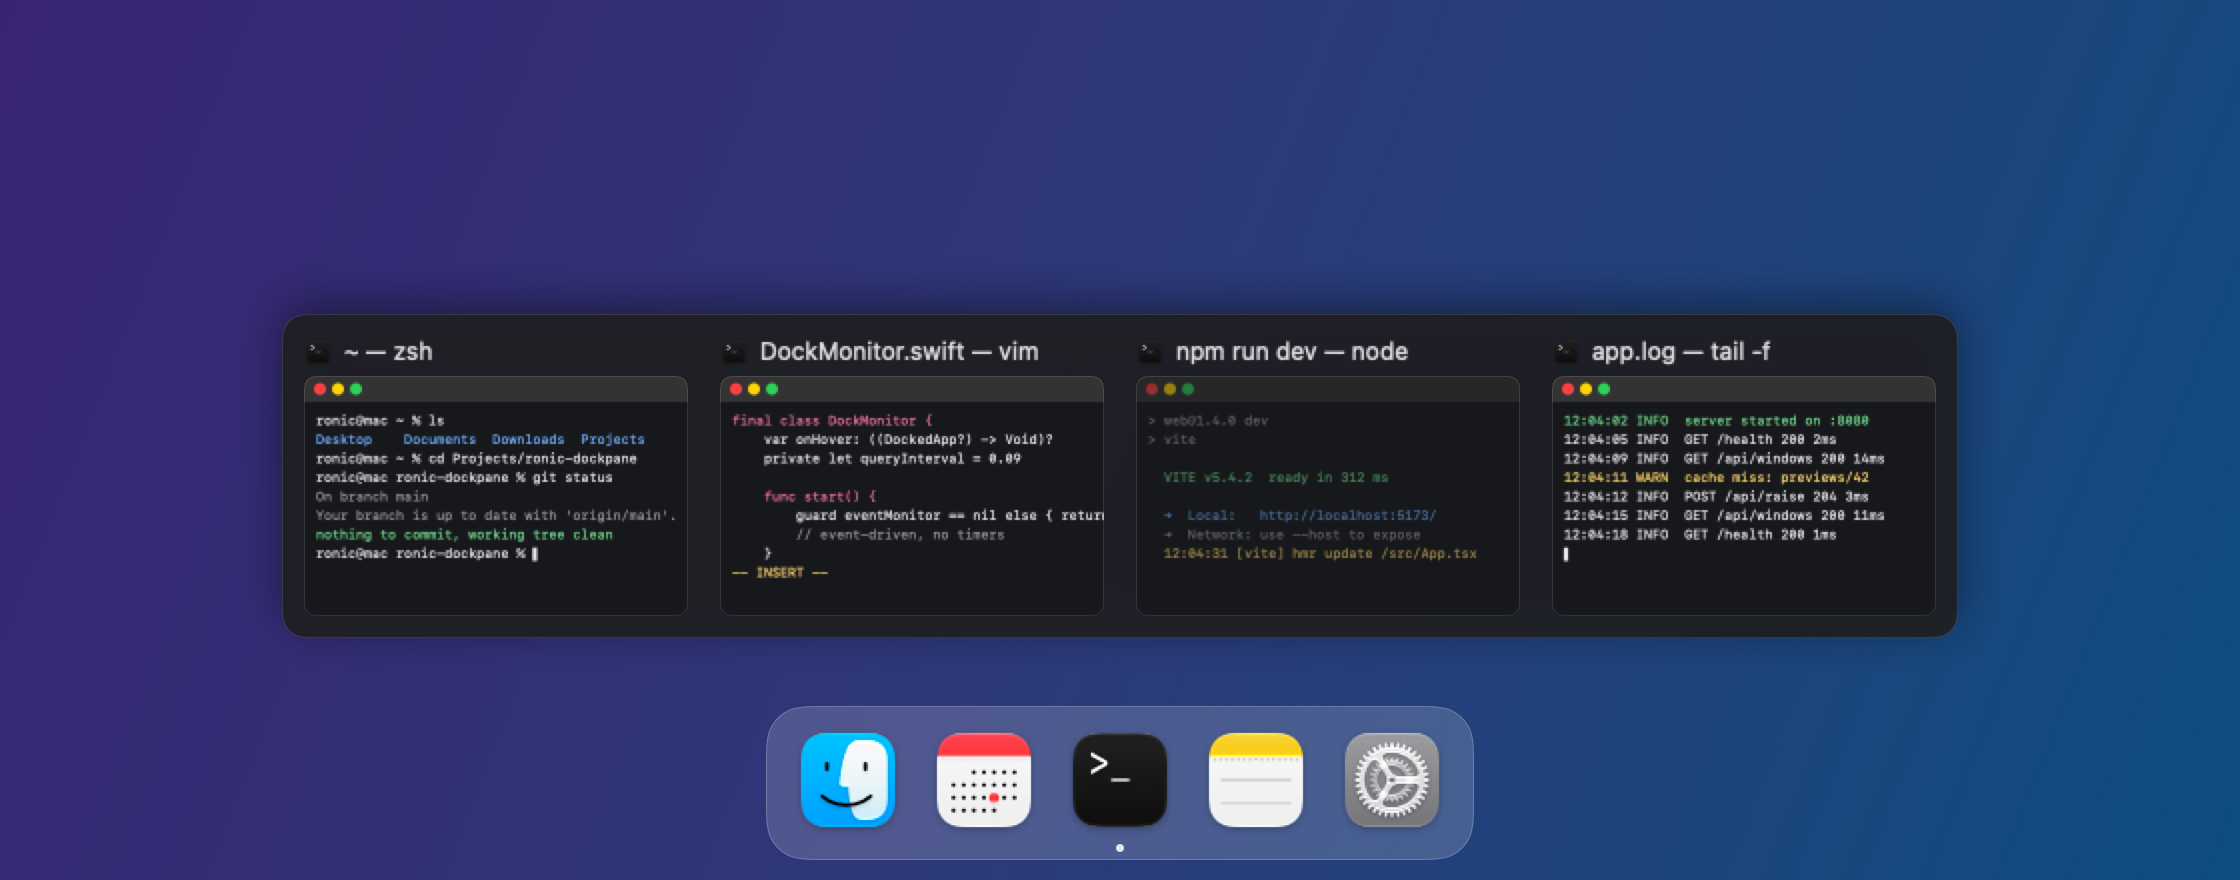
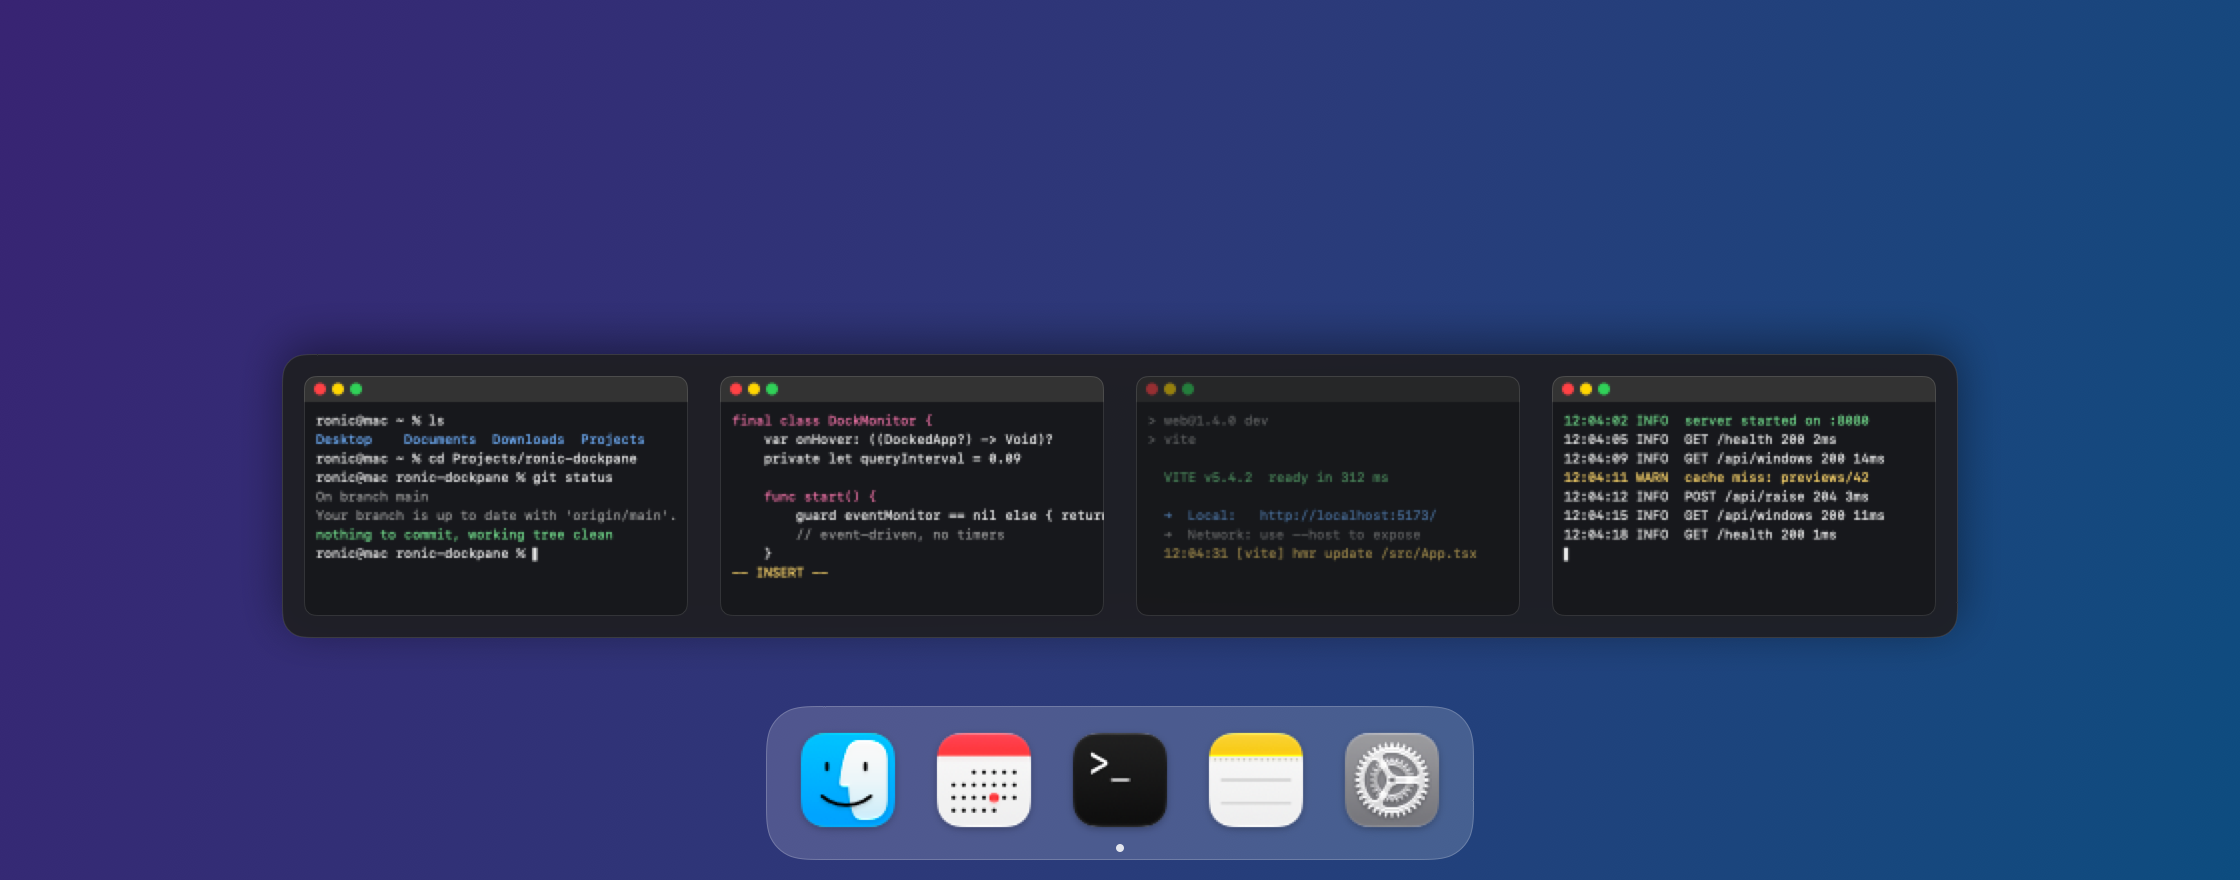
Ronic DockPane 0.4.4: nome só no Dock e painel sem encostar no ícone
- Os cartões do painel do Dock não têm mais a linha de cima (ícone e
  nome): o nome do app fica a cargo do rótulo do próprio macOS. O título
  da janela aparece ao parar o mouse no cartão, e embaixo do ícone
  enquanto não há miniatura. O alternador ⌥Tab continua com os títulos.
- O painel volta para baixo do nível do Dock, a 16 pontos do ícone, e
  é posicionado pelo tamanho máximo da ampliação do Dock: o ícone que
  ainda está crescendo não encosta mais no painel.

Changed region(s): [[0.125, 0.3375, 0.875, 0.4295]]

diff --git a/Sources/DockPane/WindowListView.swift b/Sources/DockPane/WindowListView.swift
@@ -86,8 +86,10 @@ struct WindowListView: View {
             ForEach(rows.indices, id: \.self) { index in
                 HStack(alignment: .top, spacing: 4) {
                     ForEach(rows[index]) { window in
+                        // The Dock already shows the app's name over the icon, so the cards skip their title row.
                         PreviewCard(window: window, icon: model.app.icon,
-                                    image: model.previews[window.id], onSelect: onSelect, onClose: onClose)
+                                    image: model.previews[window.id], onSelect: onSelect, onClose: onClose,
+                                    showsTitle: false)
                     }
                 }
             }
@@ -158,18 +160,8 @@ private struct AppCard: View {
     private var size: CGSize { WindowPreviewProvider.thumbnailSize }
 
     var body: some View {
+        // No title row: the Dock shows the app's name right under the panel.
         VStack(alignment: .leading, spacing: 5) {
-            HStack(spacing: 6) {
-                Image(nsImage: app.icon)
-                    .resizable()
-                    .frame(width: 14, height: 14)
-                Text(app.name)
-                    .font(.system(size: 12))
-                    .lineLimit(1)
-                Spacer(minLength: 0)
-            }
-            .frame(width: size.width)
-
             VStack(spacing: 8) {
                 Image(nsImage: app.icon)
                     .resizable()
@@ -225,6 +217,9 @@ struct PreviewCard: View {
     /// Set by the window switcher, where the keyboard decides the highlight. `nil` follows the pointer.
     var isSelected: Bool? = nil
     var onHover: () -> Void = {}
+    /// The icon and title row above the thumbnail. Without it the title shows on hover, and under the
+    /// placeholder while there is no thumbnail.
+    var showsTitle = true
 
     @State private var isHovered = false
 
@@ -234,17 +229,19 @@ struct PreviewCard: View {
 
     var body: some View {
         VStack(alignment: .leading, spacing: 5) {
-            HStack(spacing: 6) {
-                Image(nsImage: icon)
-                    .resizable()
-                    .frame(width: 14, height: 14)
-                Text(window.title)
-                    .font(.system(size: 12))
-                    .lineLimit(1)
-                    .truncationMode(.tail)
-                Spacer(minLength: 0)
+            if showsTitle {
+                HStack(spacing: 6) {
+                    Image(nsImage: icon)
+                        .resizable()
+                        .frame(width: 14, height: 14)
+                    Text(window.title)
+                        .font(.system(size: 12))
+                        .lineLimit(1)
+                        .truncationMode(.tail)
+                    Spacer(minLength: 0)
+                }
+                .frame(width: size.width)
             }
-            .frame(width: size.width)
 
             thumbnail
                 .frame(width: size.width, height: size.height)
@@ -280,6 +277,7 @@ struct PreviewCard: View {
             Color.clear.preference(key: CardFramesKey.self,
                                    value: [window.id: proxy.frame(in: .named(CardFramesKey.space))])
         })
+        .help(showsTitle ? "" : window.title)
         .onHover { hovering in
             isHovered = hovering
             if hovering { onHover() }
@@ -295,12 +293,21 @@ struct PreviewCard: View {
                 .scaledToFit()
                 .opacity(window.isMinimized ? 0.55 : 1)
         } else {
-            // Not captured (yet, or the window cannot be captured): show the app icon.
-            Image(nsImage: icon)
-                .resizable()
-                .scaledToFit()
-                .frame(width: 48, height: 48)
-                .opacity(0.8)
+            // Not captured (yet, or the window cannot be captured): the app icon, and the title if it is not above.
+            VStack(spacing: 6) {
+                Image(nsImage: icon)
+                    .resizable()
+                    .scaledToFit()
+                    .frame(width: 44, height: 44)
+                    .opacity(0.8)
+                if !showsTitle {
+                    Text(window.title)
+                        .font(.system(size: 11))
+                        .lineLimit(2)
+                        .multilineTextAlignment(.center)
+                        .padding(.horizontal, 10)
+                }
+            }
         }
     }
 }

diff --git a/Sources/DockPane/FloatingPanelController.swift b/Sources/DockPane/FloatingPanelController.swift
@@ -1,11 +1,6 @@
 import AppKit
 import SwiftUI
 
-extension NSWindow.Level {
-    /// Just above the Dock, which draws its icons and the app-name label in one full-screen window.
-    static let aboveDock = NSWindow.Level(rawValue: Int(CGWindowLevelForKey(.dockWindow)) + 1)
-}
-
 /// Borderless floating panel that never activates the app the user is working in.
 /// It carries its own HUD background and fades/slides in and out.
 final class FloatingPanel: NSPanel {
@@ -125,9 +120,7 @@ final class FloatingPanelController {
     private let minimumWindows: Int
     private let closeDelay: TimeInterval = 0.25
 
-    /// Above the Dock, so the panel can sit right on the icon and cover the Dock's own name label:
-    /// the app name then shows once, in the panel.
-    private let panel = FloatingPanel(level: .aboveDock)
+    private let panel = FloatingPanel()
     private var hostingView: NSHostingView<WindowListView>?
     private var currentModel: PanelModel?
 
@@ -405,11 +398,33 @@ final class FloatingPanelController {
         }
     }
 
+    /// The icon's frame at full Dock magnification. The icon under the pointer may still be growing when the
+    /// panel opens; measured from its current size, the panel would end up sitting on it.
+    private func reach(of app: DockedApp) -> CGRect {
+        let icon = app.itemFrame
+        guard (CFPreferencesCopyAppValue("magnification" as CFString, "com.apple.dock" as CFString) as? Bool) == true,
+              let large = CFPreferencesCopyAppValue("largesize" as CFString, "com.apple.dock" as CFString) as? NSNumber
+        else { return icon }
+        // The Dock's item frame is the icon plus a strip for the running indicator, on the screen-edge side.
+        let maxIcon = CGFloat(large.doubleValue) * 1.05
+        switch app.edge {
+        case .bottom:
+            let height = icon.height - icon.width + max(icon.width, maxIcon)
+            return CGRect(x: icon.minX, y: icon.minY, width: icon.width, height: max(icon.height, height))
+        case .left:
+            let width = icon.width - icon.height + max(icon.height, maxIcon)
+            return CGRect(x: icon.minX, y: icon.minY, width: max(icon.width, width), height: icon.height)
+        case .right:
+            let width = max(icon.width, icon.width - icon.height + max(icon.height, maxIcon))
+            return CGRect(x: icon.maxX - width, y: icon.minY, width: width, height: icon.height)
+        }
+    }
+
     /// Places the panel just outside the icon, on the side facing the screen centre, and keeps it on screen.
     private func frame(for app: DockedApp, size: CGSize) -> NSRect {
-        let icon = app.itemFrame
-        // Right next to the icon, like the Windows taskbar previews, covering the label the Dock shows there.
-        let gap: CGFloat = 4
+        let icon = reach(of: app)
+        // Close to the icon, like the Windows taskbar previews, with room for the app name the Dock shows.
+        let gap: CGFloat = app.edge == .bottom ? 16 : 10
         let screen = NSScreen.screens.first(where: { $0.frame.intersects(icon) }) ?? NSScreen.main
         let bounds = screen?.visibleFrame ?? icon
 

diff --git a/README.md b/README.md
@@ -84,7 +84,7 @@ You can also click a card, or close a window with its ✕. Turn the switcher off
 1. A global `mouseMoved` monitor watches the pointer. Nothing else runs while it stays away from the Dock.
 2. When the pointer enters the strip along the Dock's edge (bottom, left or right, read from the Dock's settings), Ronic DockPane asks the Accessibility API which Dock icon is under it. At most one query runs every 50 ms, off the main thread, on its own queue.
 3. The icon is matched to a running app, and its windows are read through `kAXWindowsAttribute`. Only standard windows with a title are kept, and minimized windows are included. When the pointer reaches the Dock, the window lists of all apps are read in parallel, so hovering an icon shows its panel at once; the list is refreshed in the background on every hover.
-4. A floating panel fades in right next to the icon, over the app-name label the Dock shows there, so the name appears only once. It doesn't take focus from the app you're using. Moving to another icon glides the panel there in 0.14 s, quick at the start so it keeps up with the pointer.
+4. A floating panel fades in just above the icon, leaving room for the app name the Dock shows there, so the cards carry no title row of their own (hover a card to see its window title). With Dock magnification on, the panel is placed for the fully magnified icon, so a growing icon never runs into it. It doesn't take focus from the app you're using. Moving to another icon glides the panel there in 0.14 s, quick at the start so it keeps up with the pointer.
 5. With Screen Recording granted, a thumbnail of each window is captured with ScreenCaptureKit (one still image per window, only while the panel is open). The panel appears immediately with placeholders and the thumbnails fill in as they arrive. On macOS 13 the panel shows a plain list of titles instead.
 6. Hovering a card shows a red ✕ that closes that window for real (it presses the window's own close button, so the app may still ask to save). Clicking a window unminimizes it if needed, raises it, activates its app, and closes the panel. The panel also closes about 250 ms after the pointer leaves both the icon and the panel, which gives you time to move between them. It then shrinks smoothly into the Dock icon, as if pulled in; a window closed with ✕ goes the same way. With **Reduce motion** on, both just fade.
 7. **⌥Tab** goes through a keyboard event tap (it needs the same Accessibility permission). The windows of every app are ordered by how they are stacked on screen, which is the order you last used them.
